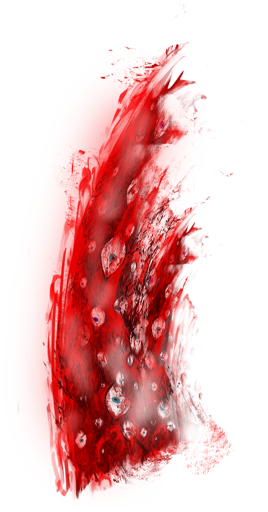
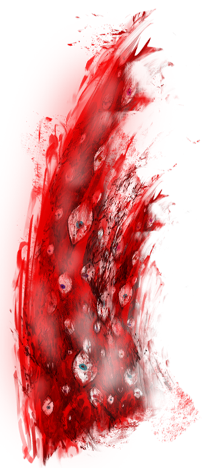
Work done in class on 12/9/23. Made Mimicry and Manifestation work as Upgrades. About to make E.G.O. function. Also sightly altered the swing effects.

diff --git a/Asteroids/Game1.cs b/Asteroids/Game1.cs
@@ -609,25 +609,40 @@ namespace Asteroid
          *                          Moves down slowly for 3 frames, ending horizontal from the grip
          *                          On frame 4, cuts to the effect
          *                          After the attack, Mimicry should be angled down in after-swing
-         *                      Remember that this animation always faces the same way and is a bit to the left of the ship
+         *                      This animation always faces the same way and is a bit to the left of the ship
          *                              Result isn't perfect, however it is close enough.
          *                          
          *                                  (just to remember for now,
          *                                  O is for vertical effect
          *                                  P is for horizontal effect
          *                                  Z is for horizontal swing and horizontal effect
-         *                                  X is for vertical swing and vertical effect)
+         *                                  x is for vertical swing and vertical effect)
          *                                  
          *                  Downloaded the effect/trail of Mimicry
          *                  Added the trails for both Greater Splits
          *                      Remember that the effects need to instantly appear then fade out
          *                          Almost forgot, also added Mimicry's backswing to Split Horizontal based on the effect
          *                      The trails will already be there after the animation, so damage should be dealt during the animation
-         *                  Make the Upgrades work (keybind uses split)
-         *                  Make E.G.O. work without any effects just yet
-         *                  Make Vertical turn into Horizontal when in E.G.O.
+         *                  Made the Upgrades work (keybinds and upgrades, no effects yet) (both Split and E.G.O.)
+         *                      Split's cooldown is twice that of level 3 Time Stop (roughly 20 seconds)
+         *                  Make sure no energy changes if GameFrozen is true
+         *                      Will probably edit AbilityUpdate and AbilityUse to not function if GameFrozen is true
+         *                  Make E.G.O. work without any VFX
+         *                      E.G.O. acts as something you can activate once per level
+         *                      Lasts 15-30 seconds (not decided yet, 23 seconds while programming it)
+         *                      Gives speed buff
+         *                      Makes you not take damage
+         *                      With the right upgrade turns Vertical into Horizontal (make sure to not make it decease while GameFrozen==true)
+         *                      
+         *                                  (none of this done yet)
+         *                  Make all cooldowns refresh when entering a new level
+         *                  Create a system to create dependencies (like if you have Upgrade1 and Upgrade2, Upgrade3 is added to the pool)
+         *                  Make an upgrade to turn Vertical turn into Horizontal when in E.G.O. if you have both Greater Split: Vertical and Manifestation
+         *                      Also halves Split cooldown to be that of max level Time Stop (roughly 10 seconds)
          *                  Make the actual attacks (based off of the Time Stop code)
-         *                  Give E.G.O. effects
+         *                      Use the effect sprites as the hitboxes
+         *                  Give E.G.O. VFX
+         *                  Move Split and EGO things in the Draw function into the right section
          *                  
          *                  
          *                  (note for when making split vertical attack: the damage should be dealt after the attack, not after the game is unfrozen)
@@ -878,20 +893,20 @@ namespace Asteroid
             TimeStopProgHolder.Add(TimeStop2);
 
             TimeStop3 = new Upgrade(BurnVec, StatUpNone, AbilityUpgradeType.TimeStop3, "Time Stop++", "Your time stop will", "now last 10 seconds,", "but the cooldown",
-                "is increased.", 40 * 2, 0, TimeStopProgHolder, 3, 1, 0, ContentLoad2D($"{tempIdiot}"), 0, 1 / 1, Color.LightYellow, false);
+                "is increased.", 40, 0, TimeStopProgHolder, 3, 1, 0, ContentLoad2D($"{tempIdiot}"), 0, 1 / 1, Color.LightYellow, false);
             TimeStopProgHolder.Add(TimeStop3);
 
             TimeStopFinal = new Upgrade(BurnVec, StatUpNone, AbilityUpgradeType.TimeStopFinal, "Your World", "Your time stop can", "be ended early,", "preserving energy",
-                "and thus cooldown.", 30 * 3, 0, TimeStopProgHolder, 4, 1, 0, ContentLoad2D($"{tempIdiot}"), 0, 1 / 1, Color.Yellow, false);
+                "and thus cooldown.", 30, 0, TimeStopProgHolder, 4, 1, 0, ContentLoad2D($"{tempIdiot}"), 0, 1 / 1, Color.Yellow, false);
             TimeStopProgHolder.Add(TimeStopFinal);
 
             Mimicry = new Upgrade(BurnVec, StatUpNone, AbilityUpgradeType.Mimicry, "Mimicry", "Press Q to", "perform Greater", "Split: Vertical",
-                "in front of you.", 30, 4, null, 1, 1, 0, ContentLoad2D($"{tempIdiot}"), 0, 1 / 1, Color.Red, false);
+                "in front of you.", 30     *3, 4     /4, null, 1, 100, 0, ContentLoad2D($"{tempIdiot}"), 0, 1 / 1, Color.Red, false);
             MimicrySprite = new Sprite(BurnVec, ContentLoad2D("Upgrades/Mimicry"), 0, 1 / 1f, Color.White);
             AllUpgrades.Add(Mimicry);
 
-            EGO = new Upgrade(BurnVec, StatUpNone, AbilityUpgradeType.EGO, "Manifestation", "Press E to manifest", "your E.G.O., giving", "a speed buff and",
-                "i-frames.", 50, 8, null, 1, 1, 0, ContentLoad2D($"{tempIdiot}"), 0, 1 / 1, Color.DarkRed, false);
+            EGO = new Upgrade(BurnVec, StatUpNone, AbilityUpgradeType.EGO, "Manifestation", "Press V to manifest", "your E.G.O., giving", "a speed buff and",
+                "i-frames.", 50     +45, 8     /8, null, 1, 1, 0, ContentLoad2D($"{tempIdiot}"), 0, 1 / 1, Color.DarkRed, false);
             EGOSprite = new Sprite(BurnVec, ContentLoad2D("Upgrades/EGO"), 0, 1 / 1f, Color.White);
             AllUpgrades.Add(EGO);
 
@@ -1792,6 +1807,47 @@ namespace Asteroid
                 }
             }
 
+            if (Mimicry.isActive)
+            {
+                if (!Mimicry.inEffect)
+                {
+                    Mimicry.EnergyGainMultiplier = 1.5f;
+
+                    //add the effect of the horizontal upgrade halving the cooldown
+
+                    Mimicry.AbilityUpdate();
+                    if (keyboardState.IsKeyDown(Keys.Q) && Mimicry.WillAbilityGetUsed())
+                    {
+                        vSplitSwing.AnimationRunning = true;
+                        Mimicry.AbilityUse();
+                        Mimicry.inEffect = true;
+                        GameFrozen = true;
+                    }
+                }
+            }
+            if (EGO.isActive)
+            {
+                EGO.AbilityUpdate();
+                if (!EGO.inEffect)
+                {
+                    if (keyboardState.IsKeyDown(Keys.V) && lastKeyboardState.IsKeyUp(Keys.V) && EGO.WillAbilityGetUsed() && EGO.energyRemaining.Width>=99.5f)
+                    {
+                        //EFFECT NOT YET PUT IN
+                        EGO.inEffect = true;
+                        EGO.EnergyGainMultiplier = 2.5f;
+                        EGO.EnergyUse = 0.2f;
+                    }
+                }
+                if (EGO.energyRemaining.Width<=0.5f && EGO.inEffect)
+                {
+                    EGO.inEffect = false;
+                    EGO.EnergyGainMultiplier = 0.1f;
+                }
+                if (EGO.inEffect) { EGO.AbilityUse(); }
+            }
+
+                //insert horizontal upgrade
+
             //Ability Effect Code
 
 
@@ -1946,6 +2002,13 @@ namespace Asteroid
             }
 
 
+                //Red Mist Upgrades
+
+
+
+                //Red Mist Upgrades
+
+
             //Ability and Upgrade Effects
 
 
@@ -1957,16 +2020,17 @@ namespace Asteroid
 
 
             //test
+            int b = 450;
+            int c = 255;
+
             if (vSplitPostSwing>TimeSpan.Zero)
             {
                 vSplitPostSwing -= gameTime.ElapsedGameTime;
                 vSplitSwing.Draw(_spriteBatch);
-                vSplitSwingEffect.Position.X = vSplitSwing.Position.X - 65;
-                vSplitSwingEffect.Position.Y = vSplitSwing.Position.Y - 150;
+                vSplitSwingEffect.Position.X = vSplitSwing.Position.X - 90;
+                vSplitSwingEffect.Position.Y = vSplitSwing.Position.Y - 120;
                 vSplitSwingEffect.Draw(_spriteBatch);
 
-                int b = 450;
-                int c = 255;
                 int a = (int)(c - vSplitPostSwing.TotalMilliseconds + 1.5 * (b - c));
 
                 if (vSplitPostSwing <= TimeFromMilli(b))
@@ -1980,6 +2044,7 @@ namespace Asteroid
                     vSplitSwing.Rotation = Angle(90);
                     GameFrozen = false;
                     vSplitSwingEffect.Color = Color.White;
+                    Mimicry.inEffect = false;
                 }
             }
             if (hSplitPostSwing>TimeSpan.Zero)
@@ -1989,8 +2054,6 @@ namespace Asteroid
                 hSplitPostSwing -= gameTime.ElapsedGameTime;
                 hSplitSwingEffect.Draw(_spriteBatch);
 
-                int b = 450;
-                int c = 255;
                 int a = (int)(c - hSplitPostSwing.TotalMilliseconds + 1.5*(b - c));
 
                 if (hSplitPostSwing<=TimeFromMilli(b))
@@ -2002,16 +2065,15 @@ namespace Asteroid
                 {
                     GameFrozen = false;
                     hSplitSwingEffect.Color = Color.White;
+                    Mimicry.inEffect = false;
                 }
             }
-
 
             if (splitBack>TimeSpan.Zero)
             {
                 splitBack -= gameTime.ElapsedGameTime;
                 _spriteBatch.FillRectangle(new Rectangle(0, 0, width, height), splitBackColor);
             }
-
 
             if (GreaterSplitVertical.AnimationRunning && GameFrozen)
             {
@@ -2022,7 +2084,6 @@ namespace Asteroid
                 GreaterSplitVertical.AnimateWhileFrozen(_spriteBatch, ref animBurnBool);
                 GameFrozen = true;
             }
-
             if (vSplitSwing.AnimationRunning && GameFrozen)
             {
                 vSplitSwing.Position = new Vector2(ship.Position.X - vSplitSwing.Image.Width/2 + 80, ship.Position.Y - vSplitSwing.Image.Height/2 + 20);
@@ -2030,7 +2091,6 @@ namespace Asteroid
                 vSplitSwing.MovementAnimate(Angle(-90), new Vector2(0, 0), _spriteBatch, ref GreaterSplitVertical.AnimationRunning);
                 GameFrozen = true;
             }
-
 
             if (hSplitSwing.AnimationRunning && GameFrozen)
             {
@@ -2041,7 +2101,6 @@ namespace Asteroid
                 splitBack = new TimeSpan(0, 0, 0, 0, 600);
                 GameFrozen = true;
             }
-
             if (GreaterSplitHorizontal.AnimationRunning && GameFrozen)
             {
                 hSplitSwingToEffect -= gameTime.ElapsedGameTime;
